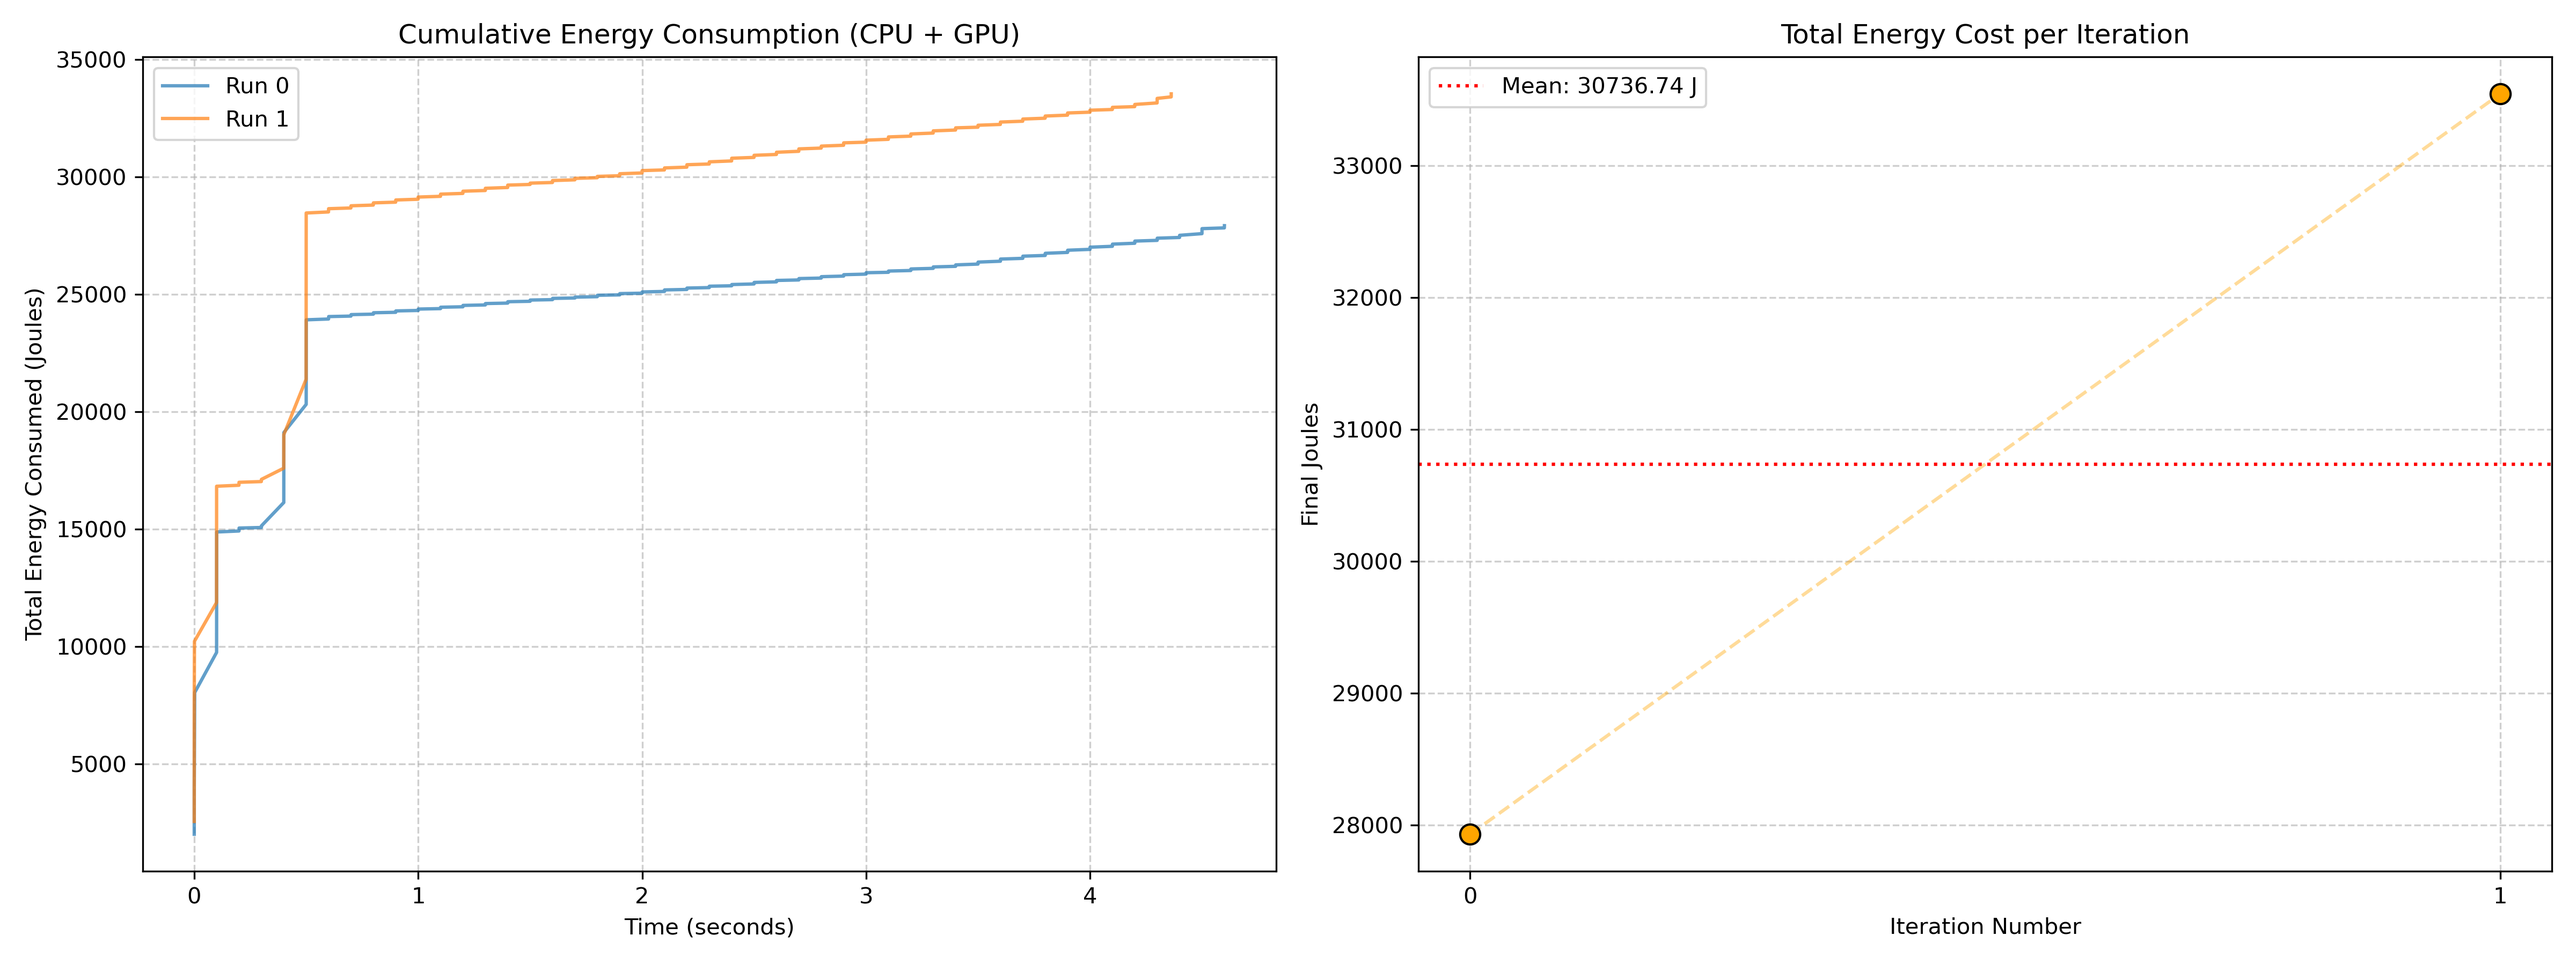
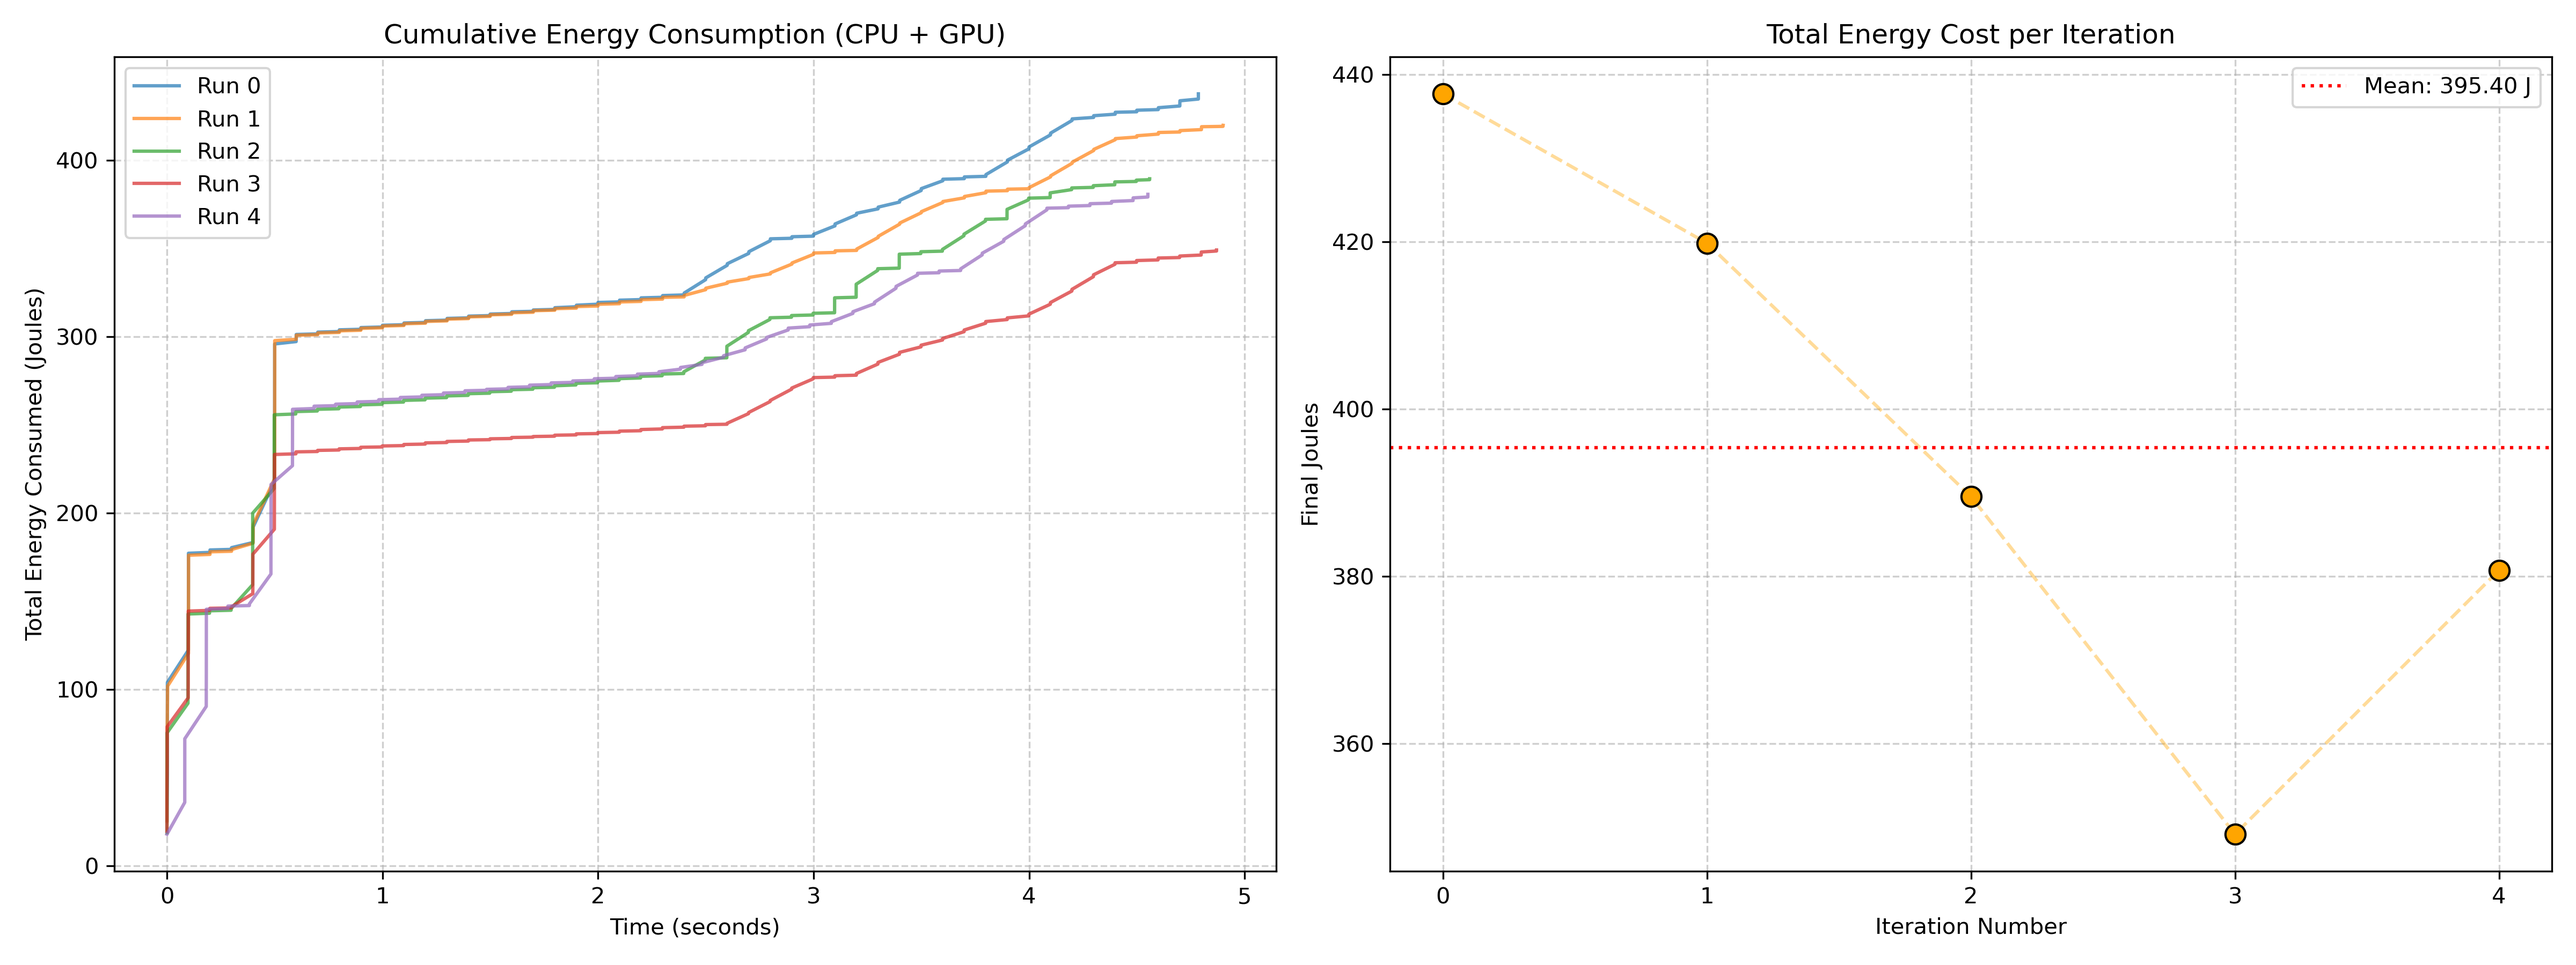
Moved config file to top directory

diff --git a/scripts/monte_carlo.py b/scripts/monte_carlo.py
@@ -1,6 +1,8 @@
 import numpy as np
 import os
 import subprocess
+import multiprocessing
+import re
 from synxflow import IO
 from synxflow.IO.demo_functions import get_sample_data
 
@@ -12,6 +14,26 @@ log_filename = 'alumet_execution.log'
 # 0. Clean up the old log file before starting a new ensemble
 if os.path.exists(log_filename):
     os.remove(log_filename)
+
+# --- Dynamic Hardware Detection ---
+detected_cores = multiprocessing.cpu_count()
+print(f"Hardware detected: {detected_cores} logical cores. Calibrating telemetry sensors...")
+
+config_path = 'alumet-config.toml'
+with open(config_path, 'r') as file:
+    config_text = file.read()
+
+# Inject the correct core count dynamically (targets the CPU expression specifically)
+dynamic_formula = f'expr = "cpu_energy * (cpu_usage / 100.0) / {detected_cores}.0"'
+config_text = re.sub(
+    r'expr = "cpu_energy \* [^"]+"', 
+    dynamic_formula, 
+    config_text
+)
+
+with open(config_path, 'w') as file:
+    file.write(config_text)
+# ----------------------------------
 
 # 1. Dynamically locate the pristine baseline map
 dem_file, demo_data, data_path = get_sample_data()
@@ -37,7 +59,7 @@ for i in range(iterations):
     dem.write(noisy_filename)
 
     # 4. Execute the Simulation & Measurement Pipeline
-    cmd = f"micromamba run -n env-model alumet-agent --config scripts/alumet-config.toml exec python scripts/gaia_flood_test.py --dem {noisy_filename} 2>&1 | tee -a {log_filename}"
+    cmd = f"micromamba run -n env-model alumet-agent --config alumet-config.toml exec python scripts/gaia_flood_test.py --dem {noisy_filename} 2>&1 | tee -a {log_filename}"
     
     print(f"Executing: {cmd}")
     subprocess.run(cmd, shell=True)
